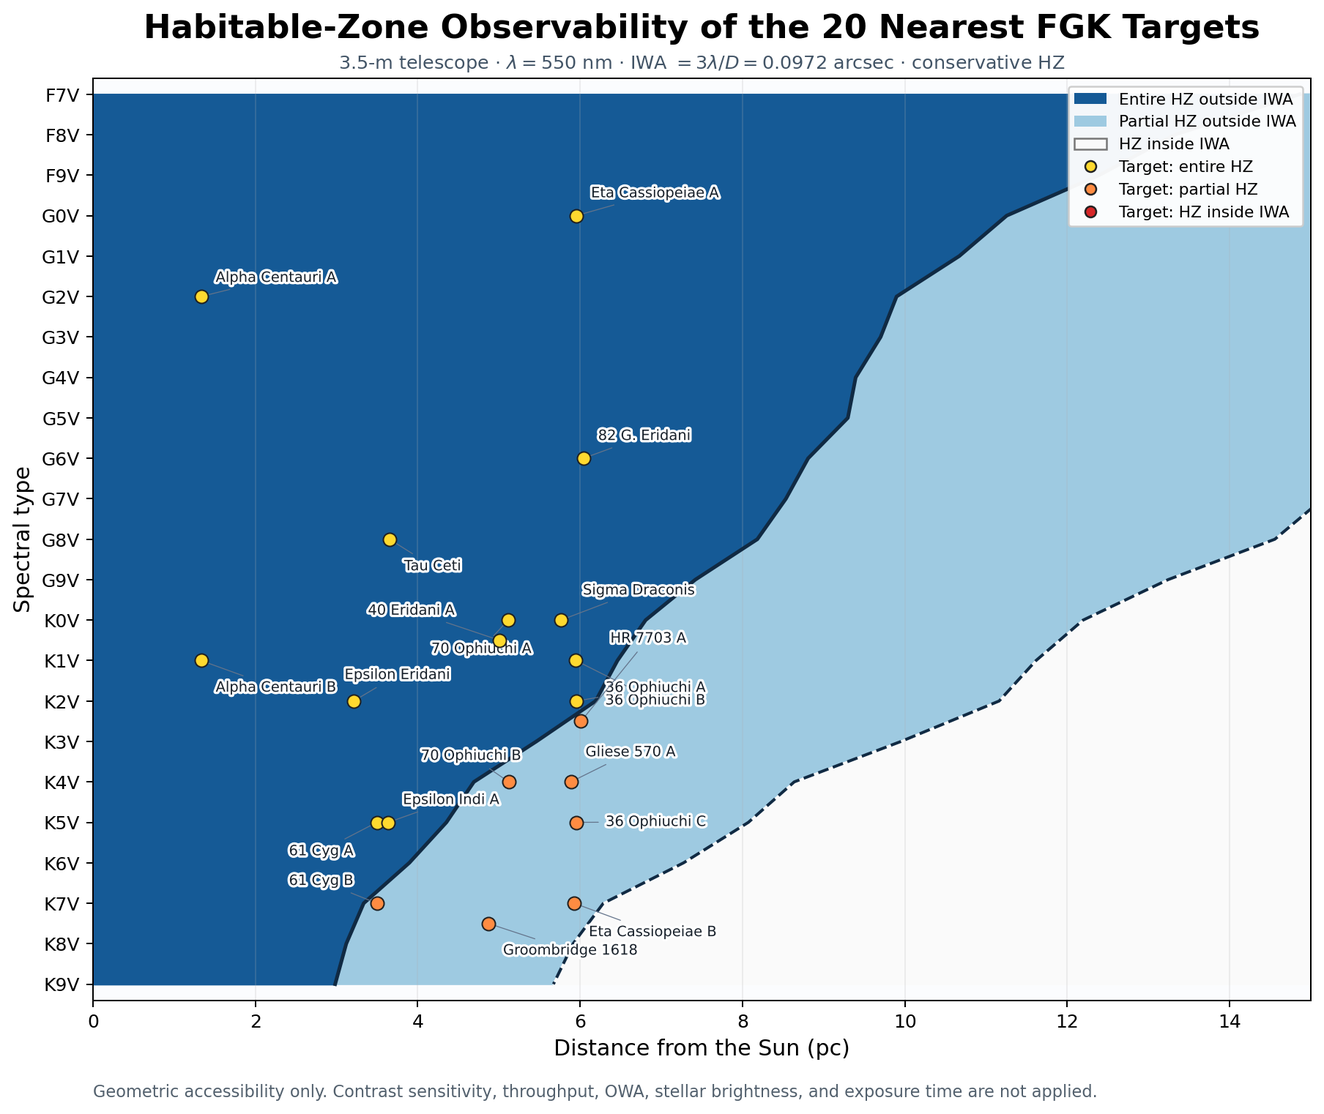
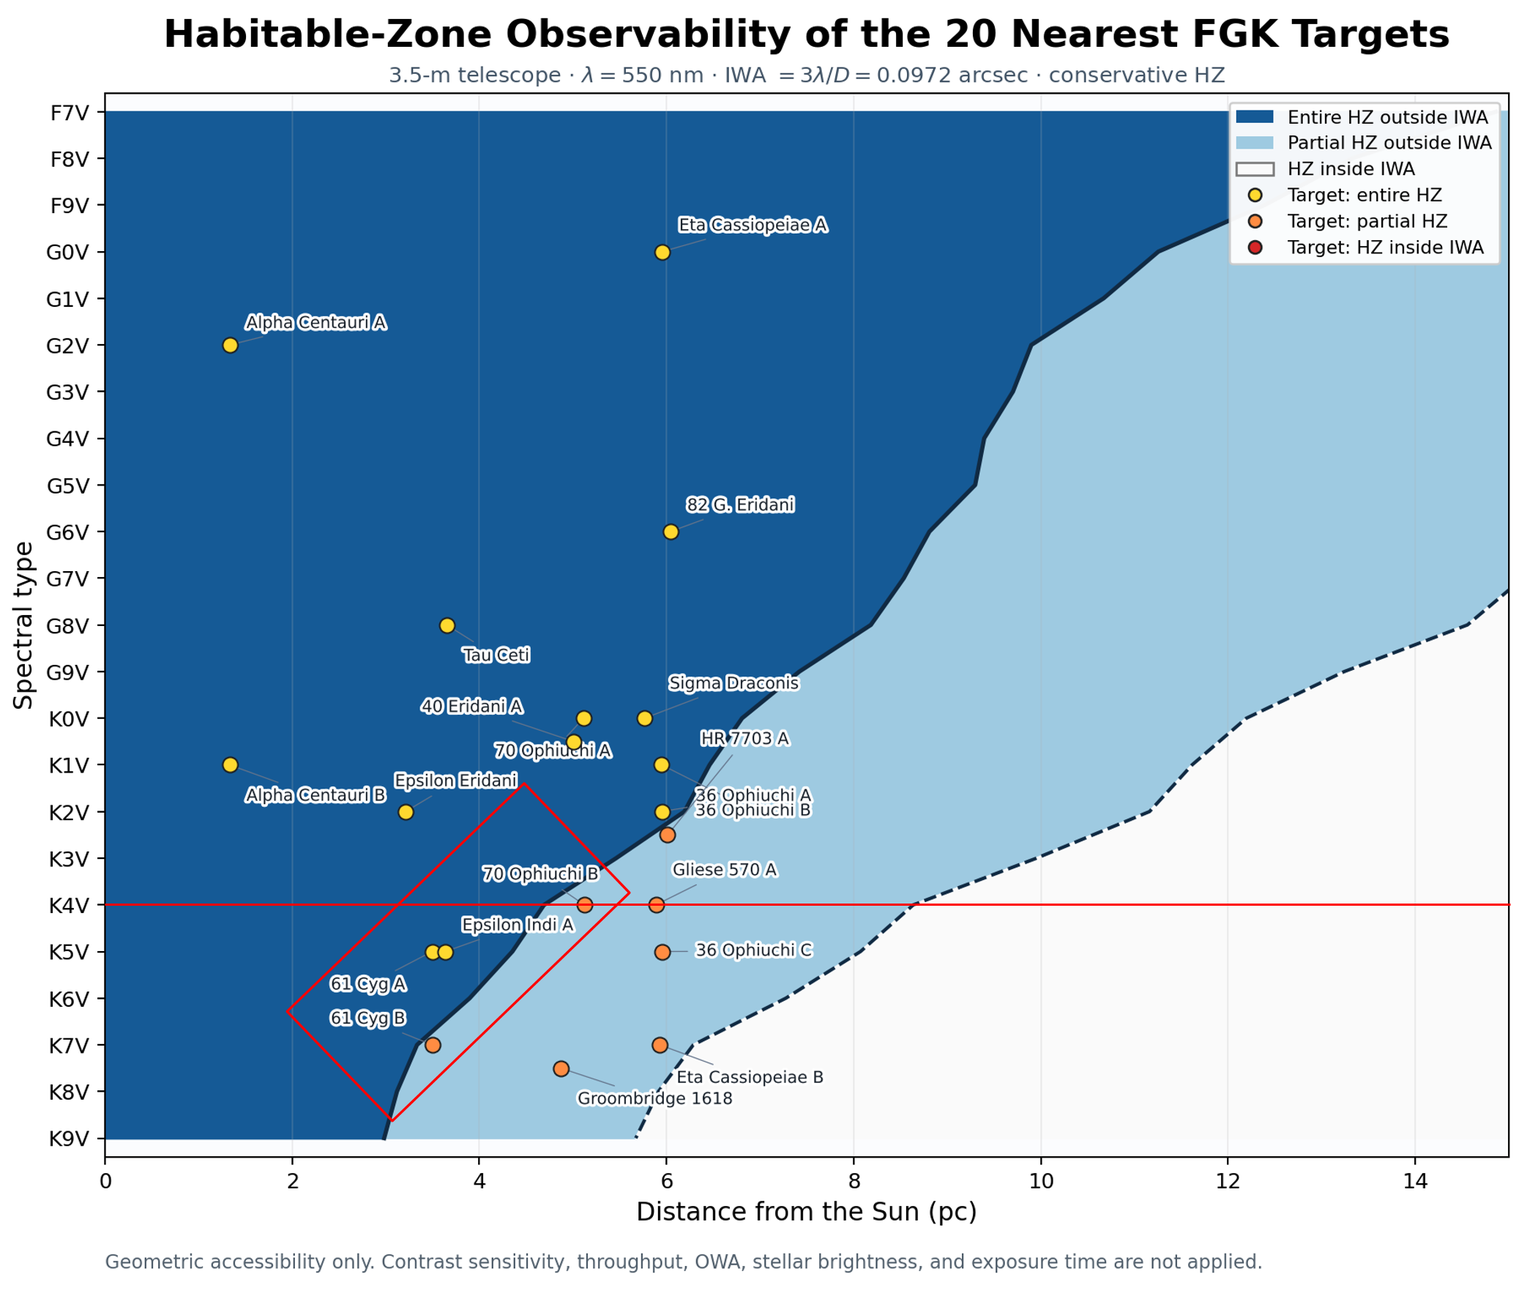
Update on Overleaf.

diff --git a/appendix_B.tex b/appendix_B.tex
@@ -394,7 +394,7 @@ Optimistic (light blue) and conservative (dark blue) habitable-zone (HZ) boundar
 \centering
 \includegraphics[width=1.0\textwidth]{book_media/HZ_obser.png}
 \caption{Observability of the conservative habitable zones around FGK stars with the 3.5-m telescope.
-The accessible distance range is shown as a function of spectral type from F1V to K9V, adopting a coronagraphic inner working angle of 3λ/D=0.097 arcsec at 550 nm. The observability classification is based on the conservative habitable zone (HZ), bounded by the runaway-greenhouse inner limit and the maximum-greenhouse outer limit. Dark blue indicates systems for which the entire conservative HZ lies outside the IWA (Entire HZ Observable), light blue indicates systems for which only part of the conservative HZ is accessible (Partial HZ Observable), and white indicates systems for which the conservative HZ remains inaccessible within the IWA. The solid and dashed curves mark the maximum distances for entire and partial HZ accessibility, respectively. These boundaries define the primary geometric criterion for selecting the nearby FGK target sample.}
+The accessible distance range is shown as a function of spectral type from F1V to K9V, adopting a coronagraphic inner working angle of 3λ/D=0.097 arcsec at 550 nm. The observability classification is based on the conservative habitable zone (HZ), bounded by the runaway-greenhouse inner limit and the maximum-greenhouse outer limit. Dark blue indicates systems for which the entire conservative HZ lies outside the IWA (Entire HZ Observable), light blue indicates systems for which only part of the conservative HZ is accessible (Partial HZ Observable), and white indicates systems for which the conservative HZ remains inaccessible within the IWA. The solid and dashed curves mark the maximum distances for entire and partial HZ accessibility, respectively. These boundaries define the primary geometric criterion for selecting the nearby FGK target sample.The red horizontal line marks the approximate K4 boundary beyond which Earth-like reflected-light contrasts approach the $10^{-9}$ regime, while the red box highlights the nearby late-K targets discussed further in Section~\ref{sec:earthlike_multi_epoch}.}
 \label{fig:fgk20-observability}
 \end{figure}
 
@@ -521,12 +521,7 @@ located within the HZ in three-dimensional space, while a planet that appears cl
 to the star at one epoch may move into an observable portion of the HZ at another
 orbital phase \cite{GuimondCowan2019}. The derived orbit will therefore be combined
 with the stellar luminosity and the conservative and optimistic HZ boundaries
-defined in Section~\ref{sec:hz-target-selection}. Particular attention will be given to planets whose
-orbits lie wholly or substantially within the conservative HZ, while planets
-occupying the optimistic HZ will remain part of the broader habitability assessment.
-Repeated observations are especially important for systems with partially accessible
-HZs, where orbital motion can bring a planet outside the IWA and provide additional
-opportunities for detection and characterization.
+defined in Section~\ref{sec:hz-target-selection}. Particular attention will be given to planets whose orbits lie wholly or substantially within the conservative HZ, while planets occupying the optimistic HZ will remain part of the broader habitability assessment. Repeated observations are especially important for systems with partially accessible HZs, where orbital motion can bring a planet outside the IWA and provide additional opportunities for detection and characterization.
 
 Once a planet is confirmed as a potentially habitable candidate, the observing
 strategy will shift from discovery to characterization. Such objects will receive
@@ -707,12 +702,281 @@ $10^{-9}$ level is a development goal for mature-giant imaging
 \label{fig:contrast}
 \end{figure}
 
+%%%%%%%%%%%%%%%%%%%%%%%% B.4
+
+\section{From the $10^{-9}$ Contrast Limit to Nearby Earth-like Worlds}
+\label{sec:earthlike_detectability}
+
+\subsection{The Challenge of Earth-like Planet Detection}
+\label{sec:earthlike_challenge}
+
+The high-contrast performance discussed in Section~B.3 poses a fundamental
+challenge for terrestrial-planet science with the 3.5-meter Segmented-Mirror
+Robotic Space Telescope. An Earth--Sun analog observed in reflected light has
+a characteristic planet-to-star contrast of order $10^{-10}$, approximately
+one order of magnitude deeper than the $\sim10^{-9}$ post-processing
+development goal considered for the 3.5mST coronagraph. At first sight, this
+appears to place Earth--Sun analogs beyond the practical reach of the mission.
+
+The nominal inner working angle (IWA) introduces an additional limitation.
+The IWA should not be interpreted as a sharp boundary beyond which the full
+limiting contrast is immediately achieved. Residual stellar light remains
+significant immediately outside the IWA, while both achievable contrast and
+coronagraphic throughput improve progressively with angular separation.
+Consequently, a habitable zone lying nominally outside the IWA is
+geometrically accessible, but this condition alone does not guarantee that an
+Earth-sized planet within that zone can be detected.
+
+These limitations motivate a more specific question: does the solar
+neighborhood contain stellar systems in which an Earth-like planet has a more
+favorable reflected-light contrast while its habitable zone remains
+sufficiently separated from the host star for coronagraphic detection?
+Addressing this question requires the contrast limit and the IWA constraint to
+be considered simultaneously rather than independently.
 
 
+\subsection{Earth-like Planet Contrast around Cooler Stars}
+\label{sec:earthlike_contrast}
 
+The contrast limit discussed in Section~\ref{sec:earthlike_multi_epoch} does not apply equally to Earth-like planets around all main-sequence stars. In reflected light, the planet-to-star flux ratio can be written as
+
+\begin{equation}
+\frac{F_p}{F_\star}
+=
+A_g \Phi(\alpha)
+\left(\frac{R_p}{a}\right)^2 ,
+\label{eq:reflected_contrast}
+\end{equation}
+
+where $A_g$ is the geometric albedo, $\Phi(\alpha)$ is the phase function,
+$R_p$ is the planetary radius, and $a$ is the orbital separation. For a
+planet receiving the same bolometric irradiation as the Earth, the
+Earth-equivalent insolation distance (EEID) scales approximately as
+
+\begin{equation}
+a_{\rm EEID}
+=
+\sqrt{\frac{L_\star}{L_\odot}}\ {\rm AU}.
+\label{eq:eeid}
+\end{equation}
+
+As the stellar luminosity decreases toward later spectral types, the EEID
+moves closer to the host star. For a planet with the same radius, albedo, and
+illumination phase, the smaller orbital separation increases the
+planet-to-star reflected-light contrast. Thus, while an Earth--Sun analog has
+a characteristic contrast of order $10^{-10}$, an Earth-like planet receiving
+comparable irradiation around a sufficiently cool K dwarf can approach the
+$\sim10^{-9}$ regime. As illustrated in Figure~\ref{fig:fgk20-observability}, 
+this transition occurs approximately in the late-K regime, near K4 and later
+under the assumptions adopted here.
+
+This apparent advantage, however, introduces a competing limitation. The same
+decrease in stellar luminosity that improves the planet-to-star contrast also
+moves the habitable zone inward, reducing its angular separation from the
+host star. Moreover, as shown in the left panel of Figure~\ref{fig:contrast}, 
+the nominal inner working angle is not a sharp boundary at which the full limiting
+contrast is suddenly achieved. Residual stellar light remains significant
+immediately outside the IWA, and the achievable contrast improves only
+gradually with increasing separation. A planet located only slightly outside
+the nominal IWA may therefore remain more difficult to detect than a simple
+IWA threshold would imply.
+
+These two effects define a narrow observational trade-off. Earlier-type stars
+provide larger habitable-zone angular separations but less favorable
+Earth-like planet contrasts, whereas cooler stars provide increasingly
+favorable contrasts at progressively smaller angular separations. The most
+promising targets for the 3.5mST should therefore occur where these two
+requirements overlap: the host star must be cool enough for an Earth-like
+planet to approach the $10^{-9}$ contrast regime, but sufficiently nearby
+that its habitable zone remains accessible outside the most challenging
+near-IWA region.
+
+%------------------------------------------------------------
+\begin{figure}[tp]
+\centering
+\includegraphics[width=1.0\textwidth]{book_media/fgkm_earth_analog_contrast.png}
+\caption{Left: separation-dependent coronagraphic contrast, demonstrating that the nominal IWA is not a hard contrast boundary. Right: reflected-light contrast of an Earth-like planet versus host-star spectral type, showing the approach to the $10^{-9}$ regime toward late-K stars.}
+\label{fig:fgk20-observability}
+\end{figure}
+%------------------------------------------------------------
+
+\subsection{Prime Nearby Targets for Earth-like Planet Searches}
+\label{sec:prime_earthlike_targets}
+
+The contrast--separation trade-off described above can now be combined with
+the habitable-zone accessibility analysis of Section~\ref{sec:Search-Habitable}. 
+Figure~\ref{fig:fgk20-observability} shows the nearby FGK sample in the plane of 
+spectral type and distance, together with the boundaries at which the habitable 
+zone becomes fully or partially accessible outside the nominal $3\lambda/D$ IWA. 
+The late-K regime identified in Section~\ref{sec:earthlike_contrast} 
+adds a second requirement to this 
+geometric selection: an Earth-like planet must not only reach a sufficiently 
+large angular separation, but must also provide a reflected-light contrast 
+approaching the $\sim10^{-9}$ performance goal of the coronagraph.
+
+Combining these two criteria substantially narrows the terrestrial-planet
+search space. As indicated in Figure~\ref{fig:fgk20-observability}, only a 
+small number of nearby late-K stars occupy the region in which both conditions 
+become favorable. Among them, 61~Cyg~A and $\epsilon$~Ind~A are particularly 
+noteworthy. Both are K5~V stars located within approximately 4~pc of the Sun, 
+allowing their compact habitable zones to subtend unusually large angles 
+on the sky.
+
+For an Earth-sized planet placed at the Earth-equivalent insolation distance,
+the current estimates give
+$a_{\rm EEID}\simeq0.38$~AU and
+$\theta_{\rm EEID}\simeq108$~mas for 61~Cyg~A, and
+$a_{\rm EEID}\simeq0.50$~AU and
+$\theta_{\rm EEID}\simeq137$~mas for $\epsilon$~Ind~A.
+These separations correspond to approximately $1.1$ and $1.4$ times,
+respectively, the nominal $3\lambda/D\simeq97$~mas IWA at 550~nm.
+Under the adopted Earth-like assumptions, the corresponding reflected-light
+contrasts are approximately $1.2\times10^{-9}$ for 61~Cyg~A and
+$6.9\times10^{-10}$ for $\epsilon$~Ind~A.
+
+These two systems illustrate the narrowness of the accessible parameter
+space rather than representing straightforward detections. 61~Cyg~A offers
+the more favorable planet-to-star contrast, but its Earth-equivalent orbit
+lies only slightly outside the nominal IWA, where stellar leakage and
+coronagraphic throughput are particularly critical. $\epsilon$~Ind~A
+provides a larger angular separation, but its predicted Earth-like contrast
+falls somewhat below the nominal $10^{-9}$ development goal. Their practical
+detectability therefore depends on the delivered contrast as a function of
+separation, near-IWA throughput, wavefront stability, stellar leakage,
+planetary phase, and orbital geometry.
+
+The search was also extended from late-K stars toward early-M stars to test
+whether still cooler hosts provide more favorable targets. Although the
+intrinsic reflected-light contrast continues to improve toward cooler stars,
+their habitable zones move progressively inward and become more difficult to
+resolve. Under the adopted 3.5mST IWA, this extension does not identify
+additional nearby systems that clearly improve upon the best late-K cases.
+The nearest late-K stars therefore define a narrow but scientifically
+compelling regime in which the competing requirements of Earth-like
+planet contrast and habitable-zone angular separation simultaneously
+approach the capabilities of the 3.5mST.
+
+The quoted angular separations represent favorable projected configurations
+and should not be interpreted as single-visit detection guarantees.
+For planets on inclined orbits, the projected separation varies throughout
+the orbit and can fall inside the effective high-contrast working region.
+The implications for discovery completeness, observing cadence, and
+multi-epoch orbital recovery are considered in 
+Section~\ref{sec:earthlike_multi_epoch}.
+
+\subsection{Multi-Epoch Detection and Atmospheric Characterization}
+\label{sec:earthlike_multi_epoch}
+
+The favorable angular separations discussed in Section~\ref{sec:prime_earthlike_targets}. represent maximum or near-maximum projected configurations and do not imply that an
+Earth-like planet will be observable during every visit. The projected
+star--planet separation depends on both orbital phase and inclination. Even
+when the physical orbit lies within the habitable zone, an inclined orbit
+can carry the planet inside the effective high-contrast working region for a
+substantial fraction of its orbital period. This effect is particularly
+important for 61~Cyg~A and $\epsilon$~Ind~A, whose Earth-equivalent
+insolation distances correspond to only approximately 1.1 and 1.4 times the
+nominal IWA, respectively. A non-detection in a single visit therefore
+provides only limited completeness for terrestrial planets in these systems.
+
+This geometry makes repeated observations an essential part of the search
+strategy. For a circular orbit, the characteristic orbital period at the
+Earth-equivalent insolation distance can be estimated from
+
+\begin{equation}
+P_{\rm EEID}
+\simeq
+\left(
+\frac{a_{\rm EEID}^{3}}{M_\star}
+\right)^{1/2}
+{\rm yr},
+\label{eq:eeid_period}
+\end{equation}
+
+where $a_{\rm EEID}$ is expressed in AU and $M_\star$ in solar masses.
+Rather than repeating observations at arbitrary intervals, successive visits
+should be separated by a significant fraction of the expected orbital
+period so that substantially different orbital phases and projected
+separations are sampled. A cadence of order $P/6$--$P/4$ provides a useful
+starting point for such a search, although the optimum cadence must ultimately
+be evaluated through completeness simulations that include orbital
+inclination, eccentricity, phase-dependent brightness, and the
+separation-dependent coronagraphic response.
+
+Once a candidate is detected, the observing strategy changes from discovery
+to orbital recovery. Multiple astrometric measurements distributed over the
+orbit can constrain the semimajor axis, inclination, and orbital phase,
+allowing subsequent observations to be scheduled near favorable projected
+separations. This is especially valuable for planets whose orbits repeatedly
+cross the effective inner working region. Multi-epoch imaging therefore
+serves two purposes: it increases the probability of initial detection and,
+after discovery, provides the orbital information required to determine
+whether the planet is consistent with long-term residence in the habitable
+zone and to predict the best epochs for spectroscopic follow-up.
+
+The brightness of a detected terrestrial planet provides the next practical
+constraint. At quadrature, its apparent magnitude can be estimated directly
+from the host-star magnitude and the reflected-light contrast,
+
+\begin{equation}
+m_p
+=
+m_\star
+-
+2.5\log_{10}
+\left(
+\frac{F_p}{F_\star}
+\right).
+\label{eq:planet_magnitude}
+\end{equation}
+
+Using the Earth-like contrasts adopted in Section~\ref{sec:prime_earthlike_targets} 
+gives apparent visual magnitudes of approximately $V\simeq27.5$ for an 
+Earth-sized planet at the EEID of both 61~Cyg~A and $\epsilon$~Ind~A. 
+These values illustrate an important distinction between intrinsic planet 
+brightness and detectability: although the planets have comparable apparent 
+magnitudes, their detection difficulty can differ substantially because 
+their angular separations and residual stellar backgrounds are different.
+
+The observing sequence should therefore be considered in three stages:
+broadband discovery imaging, multi-epoch orbital recovery, and
+reflected-light spectroscopy. A broadband detection requires sufficient
+signal-to-noise not only against photon noise but also against residual
+stellar leakage, local and exozodiacal backgrounds, detector noise, and
+the loss of coronagraphic throughput near the IWA. A reliable imaging
+exposure time for 61~Cyg~A and $\epsilon$~Ind~A must consequently be derived
+from an end-to-end, separation-dependent coronagraph model rather than from
+planet magnitude alone.
+
+For atmospheric characterization, the $R=5000$ photon-budget calculation
+developed in Section~B.6 provides a useful first estimate. Under the adopted
+Earth-like assumptions, the current model gives 5$\sigma$ molecular-band
+template-detection times of approximately 8.7~hr for 61~Cyg~A and 12~hr for
+$\epsilon$~Ind~A. These values should be regarded strictly as optimistic
+photon-noise lower bounds. The calculation does not fully include correlated
+residual speckles, detector noise, template mismatch, or the
+separation-dependent loss of coronagraphic throughput and increased stellar
+leakage close to the IWA. The actual spectroscopic integrations could
+therefore be substantially longer, particularly for 61~Cyg~A at its small
+projected separation.
+
+A target-specific observing assessment should ultimately combine these
+quantities in a single framework: the expected orbital period and revisit
+cadence, the fraction of the orbit accessible outside the effective
+high-contrast working region, the apparent planet brightness, the broadband
+discovery exposure, and the spectroscopic characterization time. Such an
+analysis will determine whether the narrow terrestrial-planet window
+identified in Section~\ref{sec:earthlike_contrast} and 
+~\ref{sec:earthlike_contrast} can be exploited in practice. The
+program should therefore be regarded not as a general Earth--Sun twin survey,
+but as a focused, multi-epoch experiment on a small number of exceptionally
+nearby systems where the angular separation and reflected-light contrast of
+an Earth-like planet simultaneously approach the performance limits of the
+3.5mST.
+
+
+%%%%%%%%%%%%%%%%%%%%%%%%%%%%%%%%%%%
 \section{The Distance Horizon of Coronagraphic Imaging}
 \label{sec:horizon}
-
 
 A coronagraph does not survey the Galaxy. It surveys a small sphere
 around the Sun, and the radius of that sphere follows directly from the

diff --git a/covers.tex b/covers.tex
@@ -19,10 +19,14 @@
   % --- authors and affiliations ---
   {\color{ink}\bfseries\normalsize \wpauthors\par}
   \vspace{3mm}
-  {\color{muted}\small Korea Astronomy and Space Science Institute \textperiodcentered\
-    Space Telescope Science Institute\\
-    Korea Institute for Advanced Study \textperiodcentered\ Pusan National University \\ Korea National University of Education\textperiodcentered\
-    Seoul National University\par}
+  {\color{muted}\small Korea Astronomy and Space Science Institute \textperiodcentered\   
+    University of Ulsan \\ 
+    University of Science and Technology \textperiodcentered\
+    Space Telescope Science Institute\\ 
+    Korea Institute for Advanced Study \textperiodcentered\ Pusan National University \\ 
+    Korea National University of Education\textperiodcentered\
+    Seoul National University\\Kyungpook National University\par}
+    
   \vspace{5mm}
   {\color{Blue3}\bfseries\Large 2026}
   \vspace{4mm}
@@ -49,9 +53,8 @@
     \textcopyright\ 2026 Korea Astronomy and Space Science Institute and the
     authors. All rights reserved.\\[2mm]
     Prepared by the mission study team at the Korea Astronomy and Space Science
-    Institute (KASI), University of Ulsan (UOU), the Space Telescope Science Institute (STScI), the Korea Institute for Advanced Study (KIAS), Pusan National University
-    (PNU) , Korea National University of Education (KNUE) and Seoul National University
-    (SNU).\\[5mm]
+    Institute (KASI), University of Ulsan (UOU), University of Science and Technology (UST), the Space Telescope Science Institute (STScI), the Korea Institute for Advanced Study (KIAS), Pusan National University (PNU) , Korea National University of Education (KNUE) and Seoul National University (SNU), Kyungpook National University (KNU).
+    \\[5mm]
     {\color{ink}\bfseries Suggested citation:}\ Kang, Y.-W., Lee, S.-H., et
     al.\ (2026), \textit{3.5-meter Segmented-Mirror Robotic Space Telescope:
     Mission White Paper}.\\[2mm]

diff --git a/whitepaper_author_page.tex b/whitepaper_author_page.tex
@@ -30,23 +30,25 @@
 % page can be edited independently if desired.
 \newcommand{\WPAuthorList}{%
 Yong-Woo Kang$^{1}$, Sang Hyun Lee$^{1,2}$, Juhan Kim$^{3}$,
-Jeong-Yeol Han$^{1}$, Sungwook E. Hong$^{1}$, Bongkon Moon$^{1}$,
+Jeong-Yeol Han$^{1,4}$, Sungwook E. Hong$^{1,4}$, Bongkon Moon$^{1,4}$,
 Donguk Song$^{1}$, Juhyung Kang$^{1}$, Chung-Uk Lee$^{1}$,
-Sangmo Tony Sohn$^{4}$, Arman Shafieloo$^{1}$, David Parkinson$^{1}$,
-Hong Soo Park$^{1}$, Dohyeong Kim$^{5}$, Chan Park$^{1}$,
-Jungjoo Sohn$^{6}$, Sang Chul Kim$^{1}$, Young-Beom Jeon$^{1}$,
-Jong-Hak Woo$^{7}$%
+Sangmo Tony Sohn$^{4}$, Arman Shafieloo$^{1,4}$, David Parkinson$^{1,4}$,
+Hong Soo Park$^{1,4}$, Dohyeong Kim$^{5}$, Chan Park$^{1}$,
+Jungjoo Sohn$^{6}$, Sang Chul Kim$^{1,4}$, Young-Beom Jeon$^{1}$,
+Jong-Hak Woo$^{7}$, Myeong-Gu Park$^{8}$%
 }
 
 % Participating institutions, numbered to match the author superscripts.
 \newcommand{\WPInstitutionList}{%
-$^{1}$ Korea Astronomy and Space Science Institute (KASI)\\
+$^{1}$ Korea Astronomy and Space Science Institute (KASI), \
 $^{2}$ University of Ulsan (UOU)\\
-$^{3}$ Korea Institute for Advanced Study (KIAS)\\
-$^{4}$ Space Telescope Science Institute (STScI)\\
-$^{5}$ Pusan National University (PNU)\\
-$^{6}$ Korea National University of Education (KNUE)\\
-$^{7}$ Seoul National University (SNU)%
+$^{3}$ Korea Institute for Advanced Study (KIAS), \
+$^{4}$ University of Science and Technology (UST)\\
+$^{5}$ Space Telescope Science Institute (STScI), \
+$^{6}$ Pusan National University (PNU) \\
+$^{7}$ Korea National University of Education (KNUE), \
+$^{8}$ Seoul National University (SNU) \\
+$^{9}$ Kyungpook National University (KNU)%
 }
 
 % Four Co-Chairs

diff --git a/whitepaper_front.tex b/whitepaper_front.tex
@@ -1,6 +1,6 @@
 \title{3.5-meter Segmented-Mirror Robotic Space Telescope}
 \subtitle{Mission White Paper: Overall Architecture and Scientific Mission}
-\newcommand{\wpauthors}{Yong-Woo Kang, Sang Hyun Lee, Juhan Kim, Jeong-Yeol Han, Sungwook E. Hong, Bongkon Moon, Donguk Song, Juhyung Kang, Chung-Uk Lee, Sangmo Tony Sohn, Arman Shafieloo, David Parkinson, Hong Soo Park, Dohyeong Kim, Chan Park, Jungjoo Sohn, Sang Chul Kim, Young-Beom Jeon, Jong-Hak Woo}
+\newcommand{\wpauthors}{Yong-Woo Kang, Sang Hyun Lee, Juhan Kim, Jeong-Yeol Han, Sungwook E. Hong, Bongkon Moon, Donguk Song, Juhyung Kang, Chung-Uk Lee, Sangmo Tony Sohn, Arman Shafieloo, David Parkinson, Hong Soo Park, Dohyeong Kim, Chan Park, Jungjoo Sohn, Sang Chul Kim, Young-Beom Jeon, Jong-Hak Woo, Myeong-Gu Park}
 \date{2026}
 %% --- abstract + keywords (use after \maketitle) ---
 \newcommand{\wpabstract}{%
